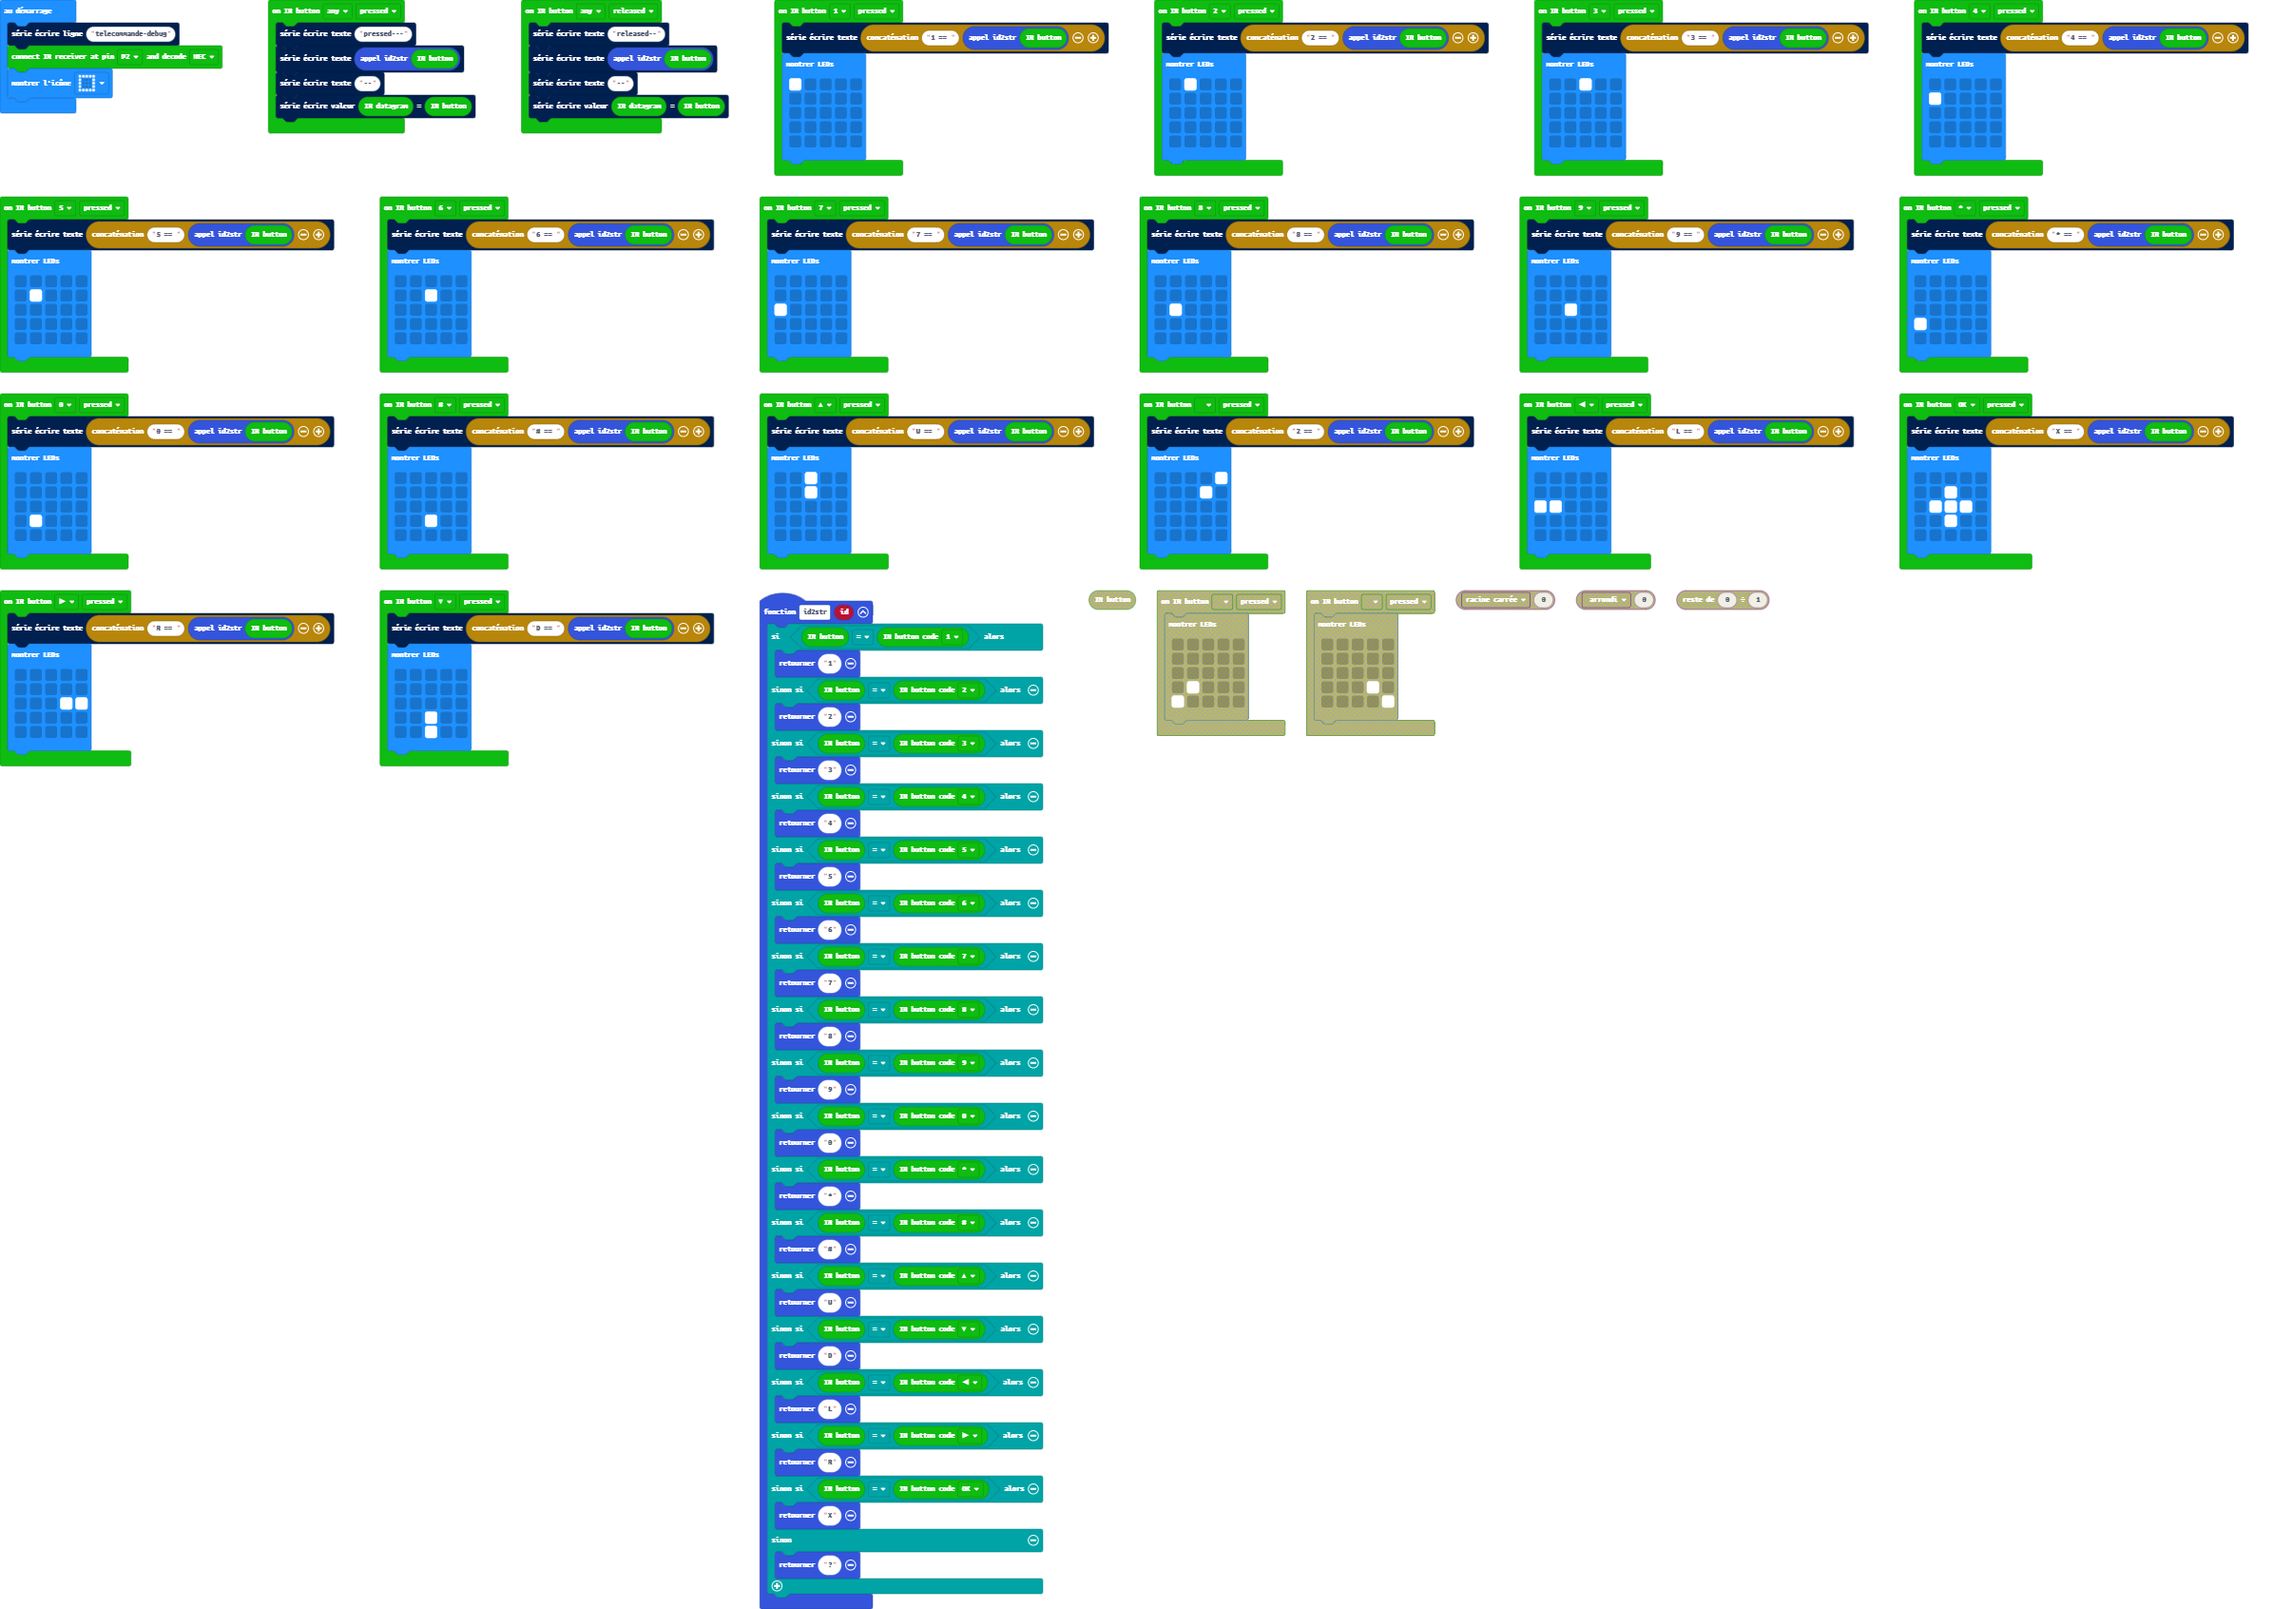
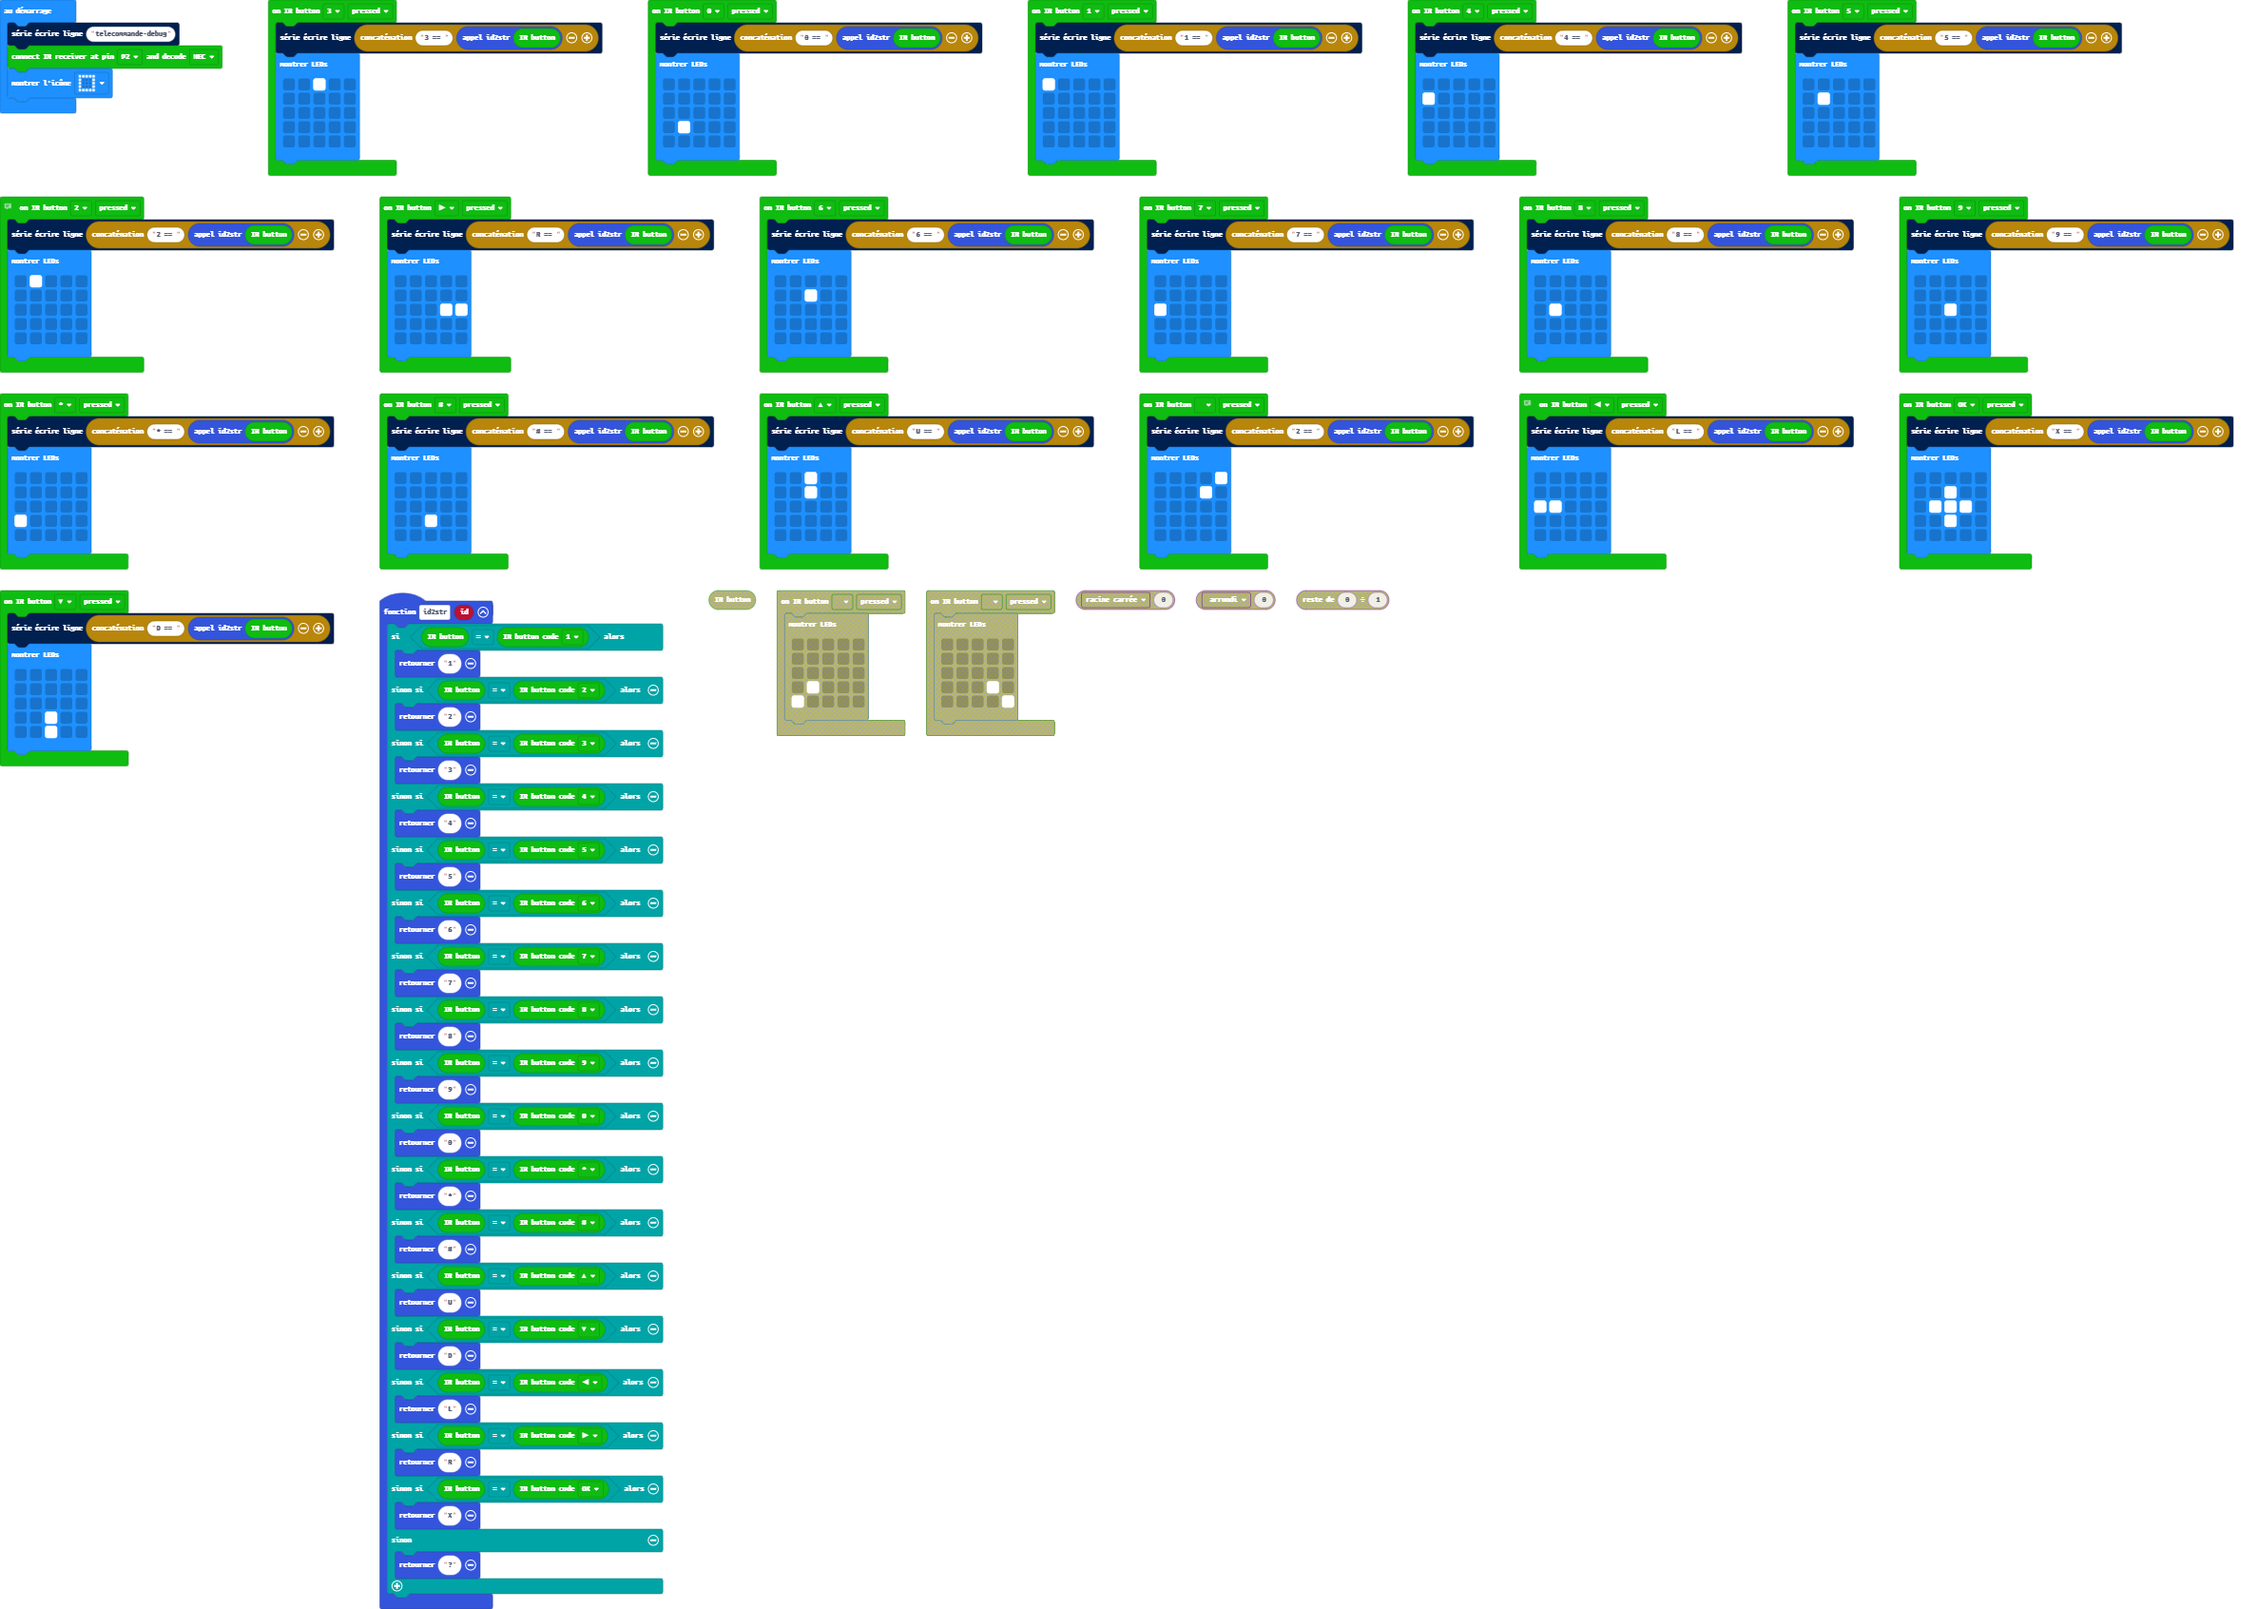
better without "on any"

diff --git a/main.ts b/main.ts
@@ -1,5 +1,5 @@
 makerbit.onIrButton(IrButton.Number_3, IrButtonAction.Pressed, function () {
-    serial.writeString("3 == " + id2str(makerbit.irButton()))
+    serial.writeLine("3 == " + id2str(makerbit.irButton()))
     basic.showLeds(`
         . . # . .
         . . . . .
@@ -9,7 +9,7 @@ makerbit.onIrButton(IrButton.Number_3, IrButtonAction.Pressed, function () {
         `)
 })
 makerbit.onIrButton(IrButton.Number_8, IrButtonAction.Pressed, function () {
-    serial.writeString("8 == " + id2str(makerbit.irButton()))
+    serial.writeLine("8 == " + id2str(makerbit.irButton()))
     basic.showLeds(`
         . . . . .
         . . . . .
@@ -19,7 +19,7 @@ makerbit.onIrButton(IrButton.Number_8, IrButtonAction.Pressed, function () {
         `)
 })
 makerbit.onIrButton(IrButton.Hash, IrButtonAction.Pressed, function () {
-    serial.writeString("# == " + id2str(makerbit.irButton()))
+    serial.writeLine("# == " + id2str(makerbit.irButton()))
     basic.showLeds(`
         . . . . .
         . . . . .
@@ -29,7 +29,7 @@ makerbit.onIrButton(IrButton.Hash, IrButtonAction.Pressed, function () {
         `)
 })
 makerbit.onIrButton(IrButton.Number_0, IrButtonAction.Pressed, function () {
-    serial.writeString("0 == " + id2str(makerbit.irButton()))
+    serial.writeLine("0 == " + id2str(makerbit.irButton()))
     basic.showLeds(`
         . . . . .
         . . . . .
@@ -39,7 +39,7 @@ makerbit.onIrButton(IrButton.Number_0, IrButtonAction.Pressed, function () {
         `)
 })
 makerbit.onIrButton(IrButton.Number_1, IrButtonAction.Pressed, function () {
-    serial.writeString("1 == " + id2str(makerbit.irButton()))
+    serial.writeLine("1 == " + id2str(makerbit.irButton()))
     basic.showLeds(`
         # . . . .
         . . . . .
@@ -49,7 +49,7 @@ makerbit.onIrButton(IrButton.Number_1, IrButtonAction.Pressed, function () {
         `)
 })
 makerbit.onIrButton(IrButton.Number_4, IrButtonAction.Pressed, function () {
-    serial.writeString("4 == " + id2str(makerbit.irButton()))
+    serial.writeLine("4 == " + id2str(makerbit.irButton()))
     basic.showLeds(`
         . . . . .
         # . . . .
@@ -59,7 +59,7 @@ makerbit.onIrButton(IrButton.Number_4, IrButtonAction.Pressed, function () {
         `)
 })
 makerbit.onIrButton(IrButton.Number_5, IrButtonAction.Pressed, function () {
-    serial.writeString("5 == " + id2str(makerbit.irButton()))
+    serial.writeLine("5 == " + id2str(makerbit.irButton()))
     basic.showLeds(`
         . . . . .
         . # . . .
@@ -69,7 +69,7 @@ makerbit.onIrButton(IrButton.Number_5, IrButtonAction.Pressed, function () {
         `)
 })
 makerbit.onIrButton(IrButton.Number_6, IrButtonAction.Pressed, function () {
-    serial.writeString("6 == " + id2str(makerbit.irButton()))
+    serial.writeLine("6 == " + id2str(makerbit.irButton()))
     basic.showLeds(`
         . . . . .
         . . # . .
@@ -78,14 +78,14 @@ makerbit.onIrButton(IrButton.Number_6, IrButtonAction.Pressed, function () {
         . . . . .
         `)
 })
-makerbit.onIrButton(IrButton.Any, IrButtonAction.Released, function () {
-    serial.writeString("released--")
-    serial.writeString("" + (id2str(makerbit.irButton())))
-    serial.writeString("--")
-    serial.writeValue(makerbit.irDatagram(), makerbit.irButton())
-})
+// makerbit.onIrButton(IrButton.Any, IrButtonAction.Released, function () {
+// serial.writeString("released--")
+// serial.writeString("" + (id2str(makerbit.irButton())))
+// serial.writeString("--")
+// serial.writeValue(makerbit.irDatagram(), makerbit.irButton())
+// })
 makerbit.onIrButton(IrButton.Left, IrButtonAction.Pressed, function () {
-    serial.writeString("L == " + id2str(makerbit.irButton()))
+    serial.writeLine("L == " + id2str(makerbit.irButton()))
     basic.showLeds(`
         . . . . .
         . . . . .
@@ -95,7 +95,7 @@ makerbit.onIrButton(IrButton.Left, IrButtonAction.Pressed, function () {
         `)
 })
 makerbit.onIrButton(IrButton.Number_7, IrButtonAction.Pressed, function () {
-    serial.writeString("7 == " + id2str(makerbit.irButton()))
+    serial.writeLine("7 == " + id2str(makerbit.irButton()))
     basic.showLeds(`
         . . . . .
         . . . . .
@@ -105,7 +105,7 @@ makerbit.onIrButton(IrButton.Number_7, IrButtonAction.Pressed, function () {
         `)
 })
 makerbit.onIrButton(IrButton.Down, IrButtonAction.Pressed, function () {
-    serial.writeString("D == " + id2str(makerbit.irButton()))
+    serial.writeLine("D == " + id2str(makerbit.irButton()))
     basic.showLeds(`
         . . . . .
         . . . . .
@@ -115,7 +115,7 @@ makerbit.onIrButton(IrButton.Down, IrButtonAction.Pressed, function () {
         `)
 })
 makerbit.onIrButton(IrButton.Star, IrButtonAction.Pressed, function () {
-    serial.writeString("* == " + id2str(makerbit.irButton()))
+    serial.writeLine("* == " + id2str(makerbit.irButton()))
     basic.showLeds(`
         . . . . .
         . . . . .
@@ -125,7 +125,7 @@ makerbit.onIrButton(IrButton.Star, IrButtonAction.Pressed, function () {
         `)
 })
 makerbit.onIrButton(IrButton.Up, IrButtonAction.Pressed, function () {
-    serial.writeString("U == " + id2str(makerbit.irButton()))
+    serial.writeLine("U == " + id2str(makerbit.irButton()))
     basic.showLeds(`
         . . # . .
         . . # . .
@@ -134,14 +134,14 @@ makerbit.onIrButton(IrButton.Up, IrButtonAction.Pressed, function () {
         . . . . .
         `)
 })
-makerbit.onIrButton(IrButton.Any, IrButtonAction.Pressed, function () {
-    serial.writeString("pressed---")
-    serial.writeString("" + (id2str(makerbit.irButton())))
-    serial.writeString("--")
-    serial.writeValue(makerbit.irDatagram(), makerbit.irButton())
-})
+// makerbit.onIrButton(IrButton.Any, IrButtonAction.Pressed, function () {
+// serial.writeString("pressed---")
+// serial.writeString("" + (id2str(makerbit.irButton())))
+// serial.writeString("--")
+// serial.writeValue(makerbit.irDatagram(), makerbit.irButton())
+// })
 makerbit.onIrButton(IrButton.Number_2, IrButtonAction.Pressed, function () {
-    serial.writeString("2 == " + id2str(makerbit.irButton()))
+    serial.writeLine("2 == " + id2str(makerbit.irButton()))
     basic.showLeds(`
         . # . . .
         . . . . .
@@ -151,7 +151,7 @@ makerbit.onIrButton(IrButton.Number_2, IrButtonAction.Pressed, function () {
         `)
 })
 makerbit.onIrButton(IrButton.Right, IrButtonAction.Pressed, function () {
-    serial.writeString("R == " + id2str(makerbit.irButton()))
+    serial.writeLine("R == " + id2str(makerbit.irButton()))
     basic.showLeds(`
         . . . . .
         . . . . .
@@ -161,7 +161,7 @@ makerbit.onIrButton(IrButton.Right, IrButtonAction.Pressed, function () {
         `)
 })
 makerbit.onIrButton(IrButton.Ok, IrButtonAction.Pressed, function () {
-    serial.writeString("X == " + id2str(makerbit.irButton()))
+    serial.writeLine("X == " + id2str(makerbit.irButton()))
     basic.showLeds(`
         . . . . .
         . . # . .
@@ -210,7 +210,7 @@ function id2str (id: number) {
     }
 }
 makerbit.onIrButton(IrButton.Number_9, IrButtonAction.Pressed, function () {
-    serial.writeString("9 == " + id2str(makerbit.irButton()))
+    serial.writeLine("9 == " + id2str(makerbit.irButton()))
     basic.showLeds(`
         . . . . .
         . . . . .
@@ -220,7 +220,7 @@ makerbit.onIrButton(IrButton.Number_9, IrButtonAction.Pressed, function () {
         `)
 })
 makerbit.onIrButton(IrButton.Unused_2, IrButtonAction.Pressed, function () {
-    serial.writeString("2 == " + id2str(makerbit.irButton()))
+    serial.writeLine("2 == " + id2str(makerbit.irButton()))
     basic.showLeds(`
         . . . . #
         . . . # .
